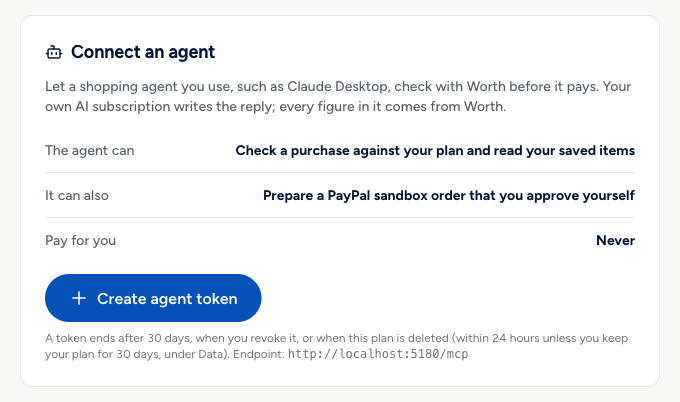
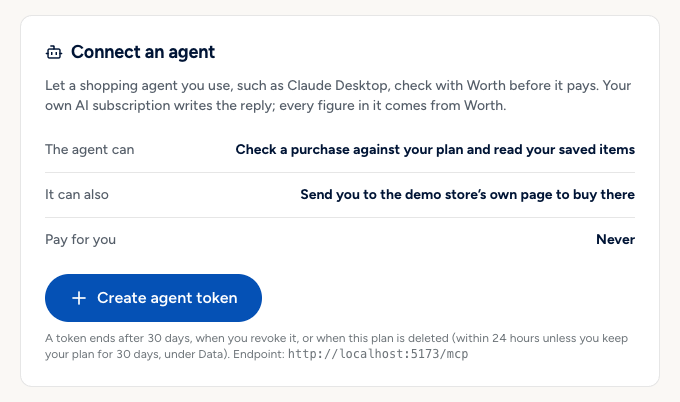
docs: Worth guardrail MCP and the store link replace agent order preparation
docs/MCP.md, README, ARCHITECTURE and EVALUATION describe open_store_checkout
and store_checkout_link, name the server "Worth guardrail MCP", and drop the
prepare_order rate limit. The Connect an agent screenshot shows the new copy.

diff --git a/docs/MCP.md b/docs/MCP.md
@@ -1,6 +1,6 @@
-# Worth over MCP: the affordability check an agent must pass before paying
+# Worth guardrail MCP: the affordability check an agent must pass before paying
 
-Worth runs a [Model Context Protocol](https://modelcontextprotocol.io) server. Any MCP client can ask it whether the person can afford a purchase, read their saved plans, and prepare a PayPal order that **the person approves themselves**. No agent can pay through Worth: there is no capture tool, and every payment still needs the person's approval in PayPal and their confirmation in Worth.
+Worth guardrail MCP is Worth's own [Model Context Protocol](https://modelcontextprotocol.io) server (not PayPal's). Any MCP client can ask it whether the person can afford a purchase at any store, read their saved plans, and, for the demo store's items, get the store's own product page. **Worth sells nothing and never creates an order** (decision 0.2 of the checkout pivot): the store sells the item, and the person pays on the store's page with the store's own PayPal checkout. No agent can pay through Worth: no tool creates, approves or captures a payment.
 
 - **Transport:** Streamable HTTP at `/mcp` on the Worth server (stateless mode), plus a stdio relay (`server/mcpStdio.ts`) for clients that launch a local process.
 - **SDK:** `@modelcontextprotocol/sdk` 1.32.0 (`McpServer`, `registerTool` with zod schemas, `StreamableHTTPServerTransport` with `sessionIdGenerator: undefined`, `StdioServerTransport`).
@@ -10,7 +10,7 @@ Worth runs a [Model Context Protocol](https://modelcontextprotocol.io) server. A
 
 **1. Bring your own AI.** Someone with a Claude Desktop subscription (or any MCP client) connects it to their Worth plan and asks "Can I afford the $1,199 camera?" in their own assistant. Their model writes the reply; Worth supplies every number. Each result carries a ready-to-quote `summary` rendered by Worth's own templates (the same wording the app uses), with `source: "Worth engine"` and the `as_of` date. The tool descriptions tell the model to quote it and never recompute or round.
 
-**2. A guardrail for shopping agents.** An agent that shops and checks out for someone calls `check_affordability` before it buys. If the person still wants to buy, the agent calls `prepare_order`, which runs the same checkout guards as Worth's own Buy button. It returns a PayPal approval link for the human and never captures. Going ahead below the cushion needs an explicit `acknowledge_below_cushion: true`, and the person confirms that again in Worth before any payment.
+**2. A guardrail for shopping agents, at any store.** An agent that shops and checks out for someone calls `check_affordability` before it buys, wherever the item is sold. Worth answers from the person's own plan: buy today, wait until a dated day, or spend less, with PayPal Pay in 4 as a comparison only. The person then buys on the store's own site. For an item in the demo store's catalog (Larkspur Supply), `store_checkout_link` returns that item's page on the store's site with the same verdict, so the agent can hand the person a link instead of a checkout.
 
 ## Setup
 
@@ -128,7 +128,7 @@ Read-only. It assesses the purchase against the person's plan over Worth's 60-da
 | `explanation`                    | Worth's decision sentences (template verdict, low point, cause).                                                                                                                                    |                                                                                                                                               |
 | `pay_in_4_comparison`            | PayPal Pay in 4 as an illustrative comparison: payments, the bills each lands near (`collisions`), and the cushion label. **Never recommended.**                                                    | `recommended: false`; `eligibility`: `paypal`, `range-only` or `unavailable`.                                                                 |
 | `facts`                          | Worth's fact sentences (the same ones Ask Worth uses).                                                                                                                                              |                                                                                                                                               |
-| `catalog_item_id`                | Set when the item is in the demo store's catalog (Larkspur Supply), so `prepare_order` can be called.                                                                                                                  |                                                                                                                                               |
+| `catalog_item_id`                | Set when the item is in the demo store's catalog (Larkspur Supply), so `store_checkout_link` can return its page on the store's site. |                                                                                                                                               |
 | `guards`                         | The checks behind the answer, in the app's trace vocabulary.                                                                                                                                        |                                                                                                                                               |
 | `next_step`                      | What an agent may do next, without recommending.                                                                                                                                                    |                                                                                                                                               |
 
@@ -154,14 +154,16 @@ How Worth's outcome maps to the contract:
 
 **Fail closed:** invalid input, an incomplete plan, and the one ambiguous case (an earlier day than the one asked about fits) each return a refusal with a reason. None of them returns a guessed verdict.
 
-### `prepare_order({ catalog_item_id, acknowledge_below_cushion? })`
+### `store_checkout_link({ catalog_item_id })`
 
-Prepares a PayPal **sandbox** order for a catalog item, behind `checkoutGuards`, the same guard set as Ask Worth's `prepare_checkout` and the saved-plan Buy button. The checks: no other checkout in progress, funds confirmed today, a complete plan, a fresh assessment, and keeping the cushion. Then it takes the same checkout path. Price, currency and merchant come from Worth's catalog, never from the agent.
+The demo store's checkout link. Read-only: it returns the item's page on the store's own site (`MERCHANT_ORIGIN/p/<catalog_item_id>`) together with Worth's verdict for buying it today at the catalog price, which is the same decision `check_affordability` gives for that item. Worth creates no order and calls no PayPal order API; the person buys on the store's page with the store's own PayPal checkout, now or on the day Worth suggests. Price, name and store come from the catalog, never from the agent.
 
-- **Returns** `status: "awaiting_human_approval"`, `approval_url` (for the person to open), `purchase_id`, `order_id`, `amount_usd`, `merchant`, `below_cushion`, `captured: false`, `human_steps` and `guards`.
-- **Never captures.** The order waits in Worth's Activity, labelled **Requested by an external agent**, until the person approves in PayPal and confirms in Worth.
-- **Below the cushion** it refuses with `SHORTFALL_NOT_CONFIRMED`. The refusal states the low point, its date and the wait date, and tells the agent that `acknowledge_below_cushion: true` is allowed only after the person explicitly says to go ahead. Even then, the order is stored as needing confirmation, and capture is refused until the person confirms that acknowledgement themselves in Worth's checkout.
-- Catalog: `headphones`, `camera`, `chair`, `backpack`, `macbook-pro-14`, `airpods-4`.
+- **Returns** `catalog_item_id`, `item`, `merchant`, `amount_usd`, `currency`, `store_url`, `affordability_status`, `recommended_action`, `amount_safe_to_pay`, `earliest_date_for_full_payment`, `explanation`, `order_created: false`, `human_steps` and `guards`. The `summary` is Worth's verdict, then "Larkspur Supply sells the …, not Worth. Buy it on the store's own page with its PayPal checkout: <store_url>", then "Worth prepared no order and nothing has been paid."
+- **Below the cushion** it still returns the link; the verdict says so (for example `affordable_later` with the date that fits). There is no acknowledgement flag, because there is nothing to approve in Worth.
+- **Store hand-off off** (`MERCHANT_ORIGIN` or `HANDOFF_SECRET` unset): `store_url` is `null`, and the summary gives the verdict and says this Worth server has no store link set up.
+- Catalog: `headphones`, `camera`, `chair`, `backpack`, `macbook-pro-14`, `airpods-4`. Any other item is refused with `UNKNOWN_ITEM`; `check_affordability` works for it instead.
+
+Before decision 0.2 this tool was `prepare_order` and created a PayPal sandbox order for the person to approve. It was renamed rather than kept, because no client config names a tool: the Claude Desktop snippets above list only the server.
 
 ### `list_saved_plans()`
 
@@ -172,7 +174,7 @@ Read-only. It lists the person's saved items, newest first: `name`, `kind` (`cat
 Worth's refusals are tool results with `isError: true` and one JSON text block:
 
 ```json
-{ "source": "Worth engine", "as_of": "2026-10-03", "summary": "…", "error": { "code": "SHORTFALL_NOT_CONFIRMED", "message": "…" }, "guards": [ … ] }
+{ "source": "Worth engine", "as_of": "2026-10-03", "summary": "…", "error": { "code": "PLAN_INCOMPLETE", "message": "…" }, "missing": [ … ] }
 ```
 
 | Code                                                                                                                                           | When                                                                                       |
@@ -181,8 +183,7 @@ Worth's refusals are tool results with `isError: true` and one JSON text block:
 | `PLAN_INCOMPLETE`                                                                                                                              | The plan needs details confirmed in Worth (`missing` lists them).                          |
 | `EARLIER_DAY_FITS`                                                                                                                             | The requested date dips below the cushion but an earlier day does not; ask about that day. |
 | `INCOHERENT_RESULT`                                                                                                                            | The coherence gate refused to send an answer.                                              |
-| `UNKNOWN_ITEM`, `CHECKOUT_ACTIVE`, `FUNDS_NOT_TODAY`, `PLAN_INCOMPLETE`, `SHORTFALL_NOT_CONFIRMED`, `ASSESSMENT_EXPIRED`, `PAYPAL_UNAVAILABLE` | `prepare_order`'s guards, in the order they run.                                           |
-| `RATE_LIMITED`                                                                                                                                 | More than 5 prepared orders per token per hour.                                            |
+| `UNKNOWN_ITEM`                                                                                                                                 | `store_checkout_link` for an item outside the demo store's catalog.                        |
 | `PLAN_EXPIRED`                                                                                                                                 | The plan was deleted while the request ran.                                                |
 | `INTERNAL_ERROR`                                                                                                                               | Anything unexpected. The message is fixed; no exception text, stack or data is included.   |
 
@@ -200,17 +201,16 @@ HTTP-level refusals are JSON-RPC errors: `401` (with `WWW-Authenticate: Bearer`)
   - 120 requests per IP per minute, counted before the token is read (`MCP_IP_PER_MINUTE`);
   - 20 failed token checks per IP per 15 minutes, after which that IP is refused even with a valid token;
   - 30 requests per token per minute (`MCP_TOKEN_PER_MINUTE`);
-  - 5 `prepare_order` calls per token per hour (`MCP_PREPARE_HOURLY`);
   - 10 token creations per plan per hour.
-- **No capture path.** No tool can pay. `prepare_order` creates an order and stops. Capture stays on the cookie-authenticated `/api/checkout/:id/capture` route, which still requires PayPal approval, a fresh plan, and the shortfall acknowledgement for below-cushion orders.
+- **No order or payment path.** No tool creates, approves or captures an order. `store_checkout_link` returns a link to the store's own page, built by the server from `MERCHANT_ORIGIN` and the catalog ID; the store creates its own PayPal order when the person checks out there.
 - **Untrusted input.** Item text and saved names are labels, and no figure is read from them. They never start or speak in Worth's quotable `summary`: a catalog item is named by the catalog; anything else is "This purchase", with its sanitised label only in quotes after Worth's sentences, or "this item" when the text reads like a verdict, an instruction or a price. The tool descriptions and server instructions tell agents to treat them as data.
 - **Token lookup** is by its SHA-256 hash through a unique index, not a constant-time compare. With 256-bit random tokens, timing can at most reveal a prefix of a stored hash, which does not help find a token.
-- **Nothing leaks.** Errors carry fixed codes and sentences written for people. Logs record the error class only. Results never include credentials, PayPal payer data or identifiers other than the purchase, order and saved-item IDs the agent needs.
+- **Nothing leaks.** Errors carry fixed codes and sentences written for people. Logs record the error class only. Results never include credentials, PayPal payer data or identifiers other than the catalog and saved-item IDs the agent needs.
 - **Bodies** on `/mcp` are limited to 32 KB. Responses are `Cache-Control: no-store`, and the existing security headers and CSP apply.
 
 ## Example transcript (abridged)
 
-Abridged from a recorded run on the sample persona, on the video day (`/?replay=video`), against the real PayPal sandbox.
+Abridged from the sample persona on the video day (`/?replay=video`), with the store hand-off on.
 
 > **Person:** Buy me the $1,199 camera.
 >
@@ -222,19 +222,16 @@ Abridged from a recorded run on the sample persona, on the video day (`/?replay=
 >
 > (`pay_in_4_comparison.label` says "An instalment would dip below your cushion on Oct 21". That date belongs only to the Pay in 4 comparison. The full-payment low point is Thu, Oct 22. Video captions and voice-over should quote Worth's summary: "lowest −$458.99 on Thu, Oct 22 … the earliest date that fits is Fri, Oct 23". They should not say Oct 21.)
 >
-> **Person:** Prepare it anyway.
+> **Person:** Send me the link anyway; I'll decide.
 >
-> **Agent** → `prepare_order({"catalog_item_id":"camera"})` → `SHORTFALL_NOT_CONFIRMED`: "Worth did not prepare the order. Buying the everyday camera today ($1,199) would dip below your $300 cushion …"
+> **Agent** → `store_checkout_link({"catalog_item_id":"camera"})`
 >
-> **Agent** (the person already said "anyway") → `prepare_order({"catalog_item_id":"camera","acknowledge_below_cushion":true})`
+> **Worth:** `affordable_later` · `store_url: https://<store>/p/camera?replay=video` · `order_created: false`. Summary: the same verdict, then "Larkspur Supply sells the everyday camera, not Worth. Buy it on the store's own page with its PayPal checkout: … Worth prepared no order and nothing has been paid."
 >
-> **Worth:** `awaiting_human_approval`, `captured: false`, `approval_url: https://www.sandbox.paypal.com/checkoutnow?token=…`. Summary: "Worth prepared a PayPal sandbox order for the everyday camera at $1,199 from Larkspur Supply. Nothing has been paid. … Open this link to review and approve it in PayPal … Then confirm the payment in Worth."
->
-> **Person** approves in PayPal. In Worth, Activity shows the order as **Requested by an external agent**. Worth asks them to confirm going below the cushion before it captures.
+> **Person** opens the store's page, where Larkspur's own PayPal button and "Analyse with Worth" sit side by side, and pays there now or on Fri, Oct 23.
 
 ## Limits
 
-- PayPal **sandbox** only, and the six-item demo catalog. `check_affordability` works for any item; `prepare_order` works only for catalog items.
-- The approval link returns to Worth in the browser that holds the plan's session. Approving from another browser works in PayPal, but the person confirms in the browser where the plan lives.
+- PayPal **sandbox** only, and the six-item demo catalog. `check_affordability` works for any item at any store; `store_checkout_link` works only for the demo store's catalog items.
 - No OAuth. Remote clients that require OAuth for custom connectors (rather than a header) need the `mcp-remote` bridge above.
 - When a token is revoked mid-session, mcp-remote reacts to the `401` by trying OAuth discovery, and shows "Dynamic Client Registration rejected (HTTP 404)". The stdio relay shows Worth's own `UNAUTHORIZED` message instead.

diff --git a/README.md b/README.md
@@ -94,7 +94,7 @@ and 47% of BNPL users say they paid late in the past year
 - **Your own history.** Import a PayPal activity CSV (personal or business export, up to 1 MB and
   10,000 rows). Worth proposes recurring bills, categories and existing Pay in 4 plans for you to
   confirm; it never deducts history from today's funds a second time.
-- **Connect an agent.** Any MCP client can ask Worth before it pays. See [MCP](#mcp).
+- **Connect an agent.** Any MCP client can ask Worth before it pays. See [Worth guardrail MCP](#worth-guardrail-mcp).
 
 ![Saved on a return visit: the camera saved for Fri, Oct 23 now shows "Your plan suggests this may fit now — confirm today's funds"](docs/img/saved-return-visit.png)
 
@@ -177,11 +177,10 @@ Claude is the interface and the narrator; the engine is the decision-maker.
   `checkSentence` rejects free numbers or dates, advice, a value in the wrong place, wording that
   rates Pay in 4, and anything that contradicts the engine's outcome; on any failure the
   engine's template sentence is shown instead. The verdict sentence itself is always a template.
-- **Act, behind guards.** `prepare_checkout` lets Claude ask for an order for a catalog item. The
-  server prepares it only if the user's own words (not quoted or pasted text) are an unqualified
-  instruction to buy, funds are confirmed for today, the assessment is fresh, no other checkout
-  is active, and the price comes from the catalog. Going below the cushion needs the user's own
-  "anyway" and a second confirmation at capture. Claude never captures.
+- **Send you to the store, never sell.** When you ask to buy a demo-store item,
+  `open_store_checkout` shows Worth's check of buying it today and an "Open at Larkspur Supply"
+  link to the store's own product page, built by the server from `MERCHANT_ORIGIN` and the
+  catalog. Worth prepares no order: you pay on the store's page with its own PayPal checkout.
 - **Consent and limits.** The untouched sample plan can use Claude without opt-in; an edited or
   imported plan needs the AI-sharing switch. Requests are capped per IP per hour and per server
   per day; past a cap, or without a key, answers are labelled local calculations.
@@ -200,10 +199,10 @@ The [evaluation](#evaluation) runs these paths live against the real model.
 | PayPal `find-eligible-methods` | Server-side Pay Later eligibility for the price before the Pay in 4 comparison is offered |
 | PayPal Webhooks | Raw-body signature verification; order events reconcile, refunds and reversals become review items |
 | PayPal sandbox accounts and negative testing | A US sandbox merchant and buyer; `PayPal-Mock-Response` for the decline and re-approve path |
-| Claude Sonnet 5.5 (Anthropic API) | Interprets questions, picks engine facts, writes one checked sentence, may request a guarded checkout, suggests import categories |
+| Claude Sonnet 5.5 (Anthropic API) | Interprets questions, picks engine facts, writes one checked sentence, may link to the demo store's product page, suggests import categories |
 | Claude Opus 5.5 (Anthropic API) | Offline only: the independent judge in the live AI eval (`eval/judge.ts`); never called by the app |
 | Channel3 API | `search`, `similar` and product reads for "similar items that fit today"; 6 h cache, daily and per-IP caps, recorded results as fallback |
-| Model Context Protocol SDK | The `/mcp` server and stdio relay that let outside agents check affordability and prepare orders |
+| Model Context Protocol SDK | Worth guardrail MCP: the `/mcp` server and stdio relay that let outside agents check affordability at any store before they buy |
 | Render | Hosts the app from `render.yaml`: one Node 24 web service with a 1 GB persistent disk |
 | SQLite (`node:sqlite`) | Session-scoped storage on that disk: plans, purchases, saved items, webhook events, agent tokens |
 | React 19, Vite, Express 5, Zod 4, TypeScript | The client, build, HTTP server and validation at every boundary |
@@ -223,7 +222,7 @@ The [evaluation](#evaluation) runs these paths live against the real model.
         │                    ▼                         └── Channel3 (similar items, cached)
         │        server/chat.ts (Anthropic SDK)
         │        tools ─► interpret · commitments · spending · plan · alternatives
-        │        prepare_checkout ─► checkoutGuards (server/agentCheckout.ts)
+        │        open_store_checkout ─► MERCHANT_ORIGIN/p/<id> (no order)
         │        sentence ─► checkSentence ─► template on any failure
         ▼                    │
   shared/finance.ts (pure TypeScript, integer cents) ◄──┘   the model's tools ARE the engine
@@ -231,7 +230,7 @@ The [evaluation](#evaluation) runs these paths live against the real model.
         │
   node:sqlite on the Render disk (one row set per anonymous session)
 
-  /mcp (bearer token, no Claude) ─► the same engine and checkoutGuards
+  /mcp (bearer token, no Claude) ─► the same engine; the store's link, never an order
 ```
 
 - **The engine** (`shared/finance.ts`, `shared/collision.ts`) is pure: data in, data out. It
@@ -250,32 +249,32 @@ The [evaluation](#evaluation) runs these paths live against the real model.
 [docs/ARCHITECTURE.md](docs/ARCHITECTURE.md) has the full design: the forecast, the AI
 boundary, the payment state machine, Channel3, saved plans, sessions and privacy.
 
-## MCP
+## Worth guardrail MCP
 
-Worth runs a Model Context Protocol server at `/mcp` (Streamable HTTP, stateless) with a stdio
-relay for local clients. Create a revocable agent token in **Settings → Connect an agent**, paste
+Worth runs its own Model Context Protocol server, Worth guardrail MCP, at `/mcp` (Streamable
+HTTP, stateless) with a stdio relay for local clients. Create a revocable agent token in **Settings → Connect an agent**, paste
 the generated config into Claude Desktop or any MCP client, and ask "Can I afford the $1,199
 camera?" in your own assistant.
 
-- `check_affordability` returns Worth's decision (affordable now, later, or not; the safe amount;
-  the earliest date; the low point and the bill behind it; Pay in 4 as a comparison) with a
-  ready-to-quote summary from Worth's templates. Coherence invariants are checked before every
-  answer.
-- `prepare_order` runs the same `checkoutGuards` as the Buy button and returns a PayPal approval
-  link for the person. There is no capture tool; the order waits in Activity, labelled
-  "Requested by an external agent", until the person approves and confirms.
+- `check_affordability` is the guardrail for any store. It returns Worth's decision (affordable
+  now, later, or not; the safe amount; the earliest date; the low point and the bill behind it;
+  Pay in 4 as a comparison) with a ready-to-quote summary from Worth's templates. Coherence
+  invariants are checked before every answer.
+- `store_checkout_link` is the demo store's checkout link: for a Larkspur Supply item it returns
+  the store's own product page with the same verdict. Worth creates no order; the person pays on
+  the store's page with its PayPal checkout.
 - `list_saved_plans` lists saved items and wait plans.
 
 The MCP path makes no Anthropic call. Tokens are stored as SHA-256 fingerprints, bound to one
 plan and rate-limited. Setup, the tool contract and the security model are in
 [docs/MCP.md](docs/MCP.md).
 
-<img src="docs/img/connect-agent.png" width="560" alt="Settings, Connect an agent: the agent can check a purchase against your plan and read saved items, can prepare a PayPal sandbox order you approve yourself, and can never pay for you">
+<img src="docs/img/connect-agent.png" width="560" alt="Settings, Connect an agent: the agent can check a purchase against your plan and read saved items, can send you to the demo store's own page to buy there, and can never pay for you">
 
 ## Limits and degradation
 
 - **Sandbox only.** No real money moves and no goods ship. The demo store (Larkspur Supply) has
-  six items; `prepare_checkout` and `prepare_order` work only for those.
+  six items; `open_store_checkout` and `store_checkout_link` link only to those.
 - **USD only, CSV only.** There is no consumer API for PayPal activity, so history comes from a
   CSV export or the sample plan. Foreign-currency rows without a USD conversion block positive
   answers until resolved.
@@ -338,7 +337,7 @@ the webhook ID in `PAYPAL_WEBHOOK_ID`. Localhost alone cannot receive them.
 | `CLAUDE_DAILY_LIMIT`, `CLAUDE_IP_HOURLY_LIMIT` | Claude requests per server per day (200) and per client IP per hour (20) |
 | `SESSION_IP_HOURLY_LIMIT` | New sessions per client IP per hour (30) |
 | `MAX_SESSIONS`, `MAX_TRANSACTIONS` | Live sessions (5,000) and stored transactions per session (20,000) |
-| `MCP_IP_PER_MINUTE`, `MCP_TOKEN_PER_MINUTE`, `MCP_PREPARE_HOURLY` | `/mcp` requests per IP per minute (120), per token per minute (30), and `prepare_order` calls per token per hour (5) |
+| `MCP_IP_PER_MINUTE`, `MCP_TOKEN_PER_MINUTE` | `/mcp` requests per IP per minute (120) and per token per minute (30) |
 | `PORT`, `HOST` | Port (5173) and bind address (`0.0.0.0` in production, `127.0.0.1` otherwise) |
 | `APP_ORIGIN` | Public browser origin. Falls back to `APP_URL`, then `RENDER_EXTERNAL_URL`, then `http://localhost:$PORT`. Production refuses localhost or plain HTTP |
 | `TRUST_PROXY` | Reverse-proxy hops trusted for the client IP. Required in production (2 on Render) |

diff --git a/docs/ARCHITECTURE.md b/docs/ARCHITECTURE.md
@@ -18,17 +18,17 @@ flowchart LR
   API --> Import[CSV normalisation]
   API --> Claude[Claude Sonnet 5.5<br/>engine tools]
   Claude --> Engine
-  Claude -.prepare_checkout.-> Guards[checkoutGuards]
-  API --> Guards
+  Claude -.open_store_checkout.-> StoreLink[Store product page link<br/>MERCHANT_ORIGIN/p/id]
+  API --> Guards[checkoutGuards]
   Guards --> PayPal[PayPal sandbox<br/>Orders v2 · eligibility]
   API --> Channel3[Channel3 search]
   UI --> SDK[PayPal JS SDK v6<br/>button · popup · Messages]
   SDK --> Approval[Buyer approval in PayPal]
   PayPal -->|webhook, raw body| Webhook[Verify signature<br/>re-read order or refund]
   Webhook --> Store
-  Agent[MCP client] -->|bearer token| MCP[/mcp]
+  Agent[MCP client] -->|bearer token| MCP["/mcp · Worth guardrail MCP"]
   MCP --> Engine
-  MCP --> Guards
+  MCP -.store_checkout_link.-> StoreLink
 ```
 
 In development, `server/index.ts` mounts Vite middleware in the same Express process. In
@@ -52,7 +52,7 @@ the model name and the Channel3 status).
 | `server/chat.ts` | The Claude tool loop, tool schemas, the answer's trace, and the deterministic local fallback. |
 | `server/interpret.ts`, `server/money.ts`, `server/dates.ts` | Checks Claude's reading against the user's own words: amounts, currencies, timing phrases and which item a follow-up means. |
 | `server/narration.ts` | Every sentence the user reads: verdict templates, fact catalogs, the Pay in 4 wording and `checkSentence` for Claude's one sentence. |
-| `server/agentCheckout.ts` | `asksToCheckOut` (the user's own unqualified instruction) and `checkoutGuards`, shared by Ask Worth, the saved-plan Buy button and MCP. |
+| `server/checkoutGuards.ts` | `checkoutGuards` for the saved-plan Buy button. Agents (Ask Worth and MCP) never prepare orders; they link to the store's own page. |
 | `server/paypal.ts` | Sandbox OAuth, Orders v2 create/get/capture, refunds, `find-eligible-methods`, webhook signature verification and order validation. |
 | `server/channel3.ts`, `server/alternatives.ts` | The Channel3 adapter (band, parsing, URL lookup, cache, back-off, limits, recorded fallback) and what Worth searches for. |
 | `server/outcome.ts` | A store's verified report-back (C4): idempotent on captureId, recorded once with consent and `returnedAt`. |
@@ -110,7 +110,7 @@ retry of a retryable provider error while time remains. The person's message, up
 eight prior messages and a bounded request context are sent; transaction and merchant strings
 are minimised and marked as data, never instructions.
 
-Tools, all read-only except the guarded request in `prepare_checkout`:
+Tools, all read-only:
 
 | Tool | What Claude reports | What the server does |
 | --- | --- | --- |
@@ -119,7 +119,7 @@ Tools, all read-only except the guarded request in `prepare_checkout`:
 | `spending_summary` | — | Totals completed USD spending by category for 30 days |
 | `get_plan_summary` | — | Room to spend today, the baseline low point and its cause |
 | `find_alternatives` | A generic kind of item and a ceiling the user wrote | Refuses for "cheaper" about timing, payment method or services; otherwise searches Channel3 within the room today; only the outcome returns to Claude, never product names or prices |
-| `prepare_checkout` | Catalog item ID, option, and whether the user said to go ahead below the cushion | Runs `checkoutGuards`; Claude receives only the outcome |
+| `open_store_checkout` | A catalog item ID, when the person asks to buy it | Assesses the item at its catalog price today and links to `MERCHANT_ORIGIN/p/<id>` (no link while the hand-off is off). Worth prepares no order; Claude receives only whether a link was shown |
 
 Every read tool also takes **presentation fields**: up to three facts from a fixed catalog for
 that tool, a reason for each from a fixed set (`answers_question`, `explains_result`,
@@ -143,14 +143,19 @@ which tool ran, the facts Claude picked with their reasons, every server check t
 stopped the answer, and Claude's raw placeholder sentence with whether it was accepted. The
 client shows it under "How Ask Worth read this".
 
-**Checkout.** `checkoutGuards` (`server/agentCheckout.ts`) runs in order: an explicit purchase
-instruction in the user's own words (quoted or pasted text dropped, no question, no negation or
-condition), a catalog item, named in the message or the item under discussion, no other active
-checkout, funds confirmed today, a complete plan, the wait date reached for the wait option, the
-spend-less limit for that option, and below the cushion only with the user's own go-ahead.
-Creating the order then re-checks a fresh assessment and that PayPal is available. The price, currency and merchant come from the catalog. An
-order prepared below the cushion is stored as needing confirmation, and capture refuses until
-the user confirms that in the checkout.
+**Buying from the demo store.** Ask Worth never prepares an order (decision 0.2 of the checkout
+pivot). When the person asks to buy a catalog item, `open_store_checkout` shows the engine's
+assessment of buying it today and an "Open at Larkspur Supply" link to the store's own product
+page. The URL, name and price come from the server's catalog and `MERCHANT_ORIGIN`, never from
+Claude; the link leaves in the same tab with `rel="noreferrer"`, like `/check`'s "Back to
+Larkspur Supply". The store creates its own PayPal order when the person checks out there.
+
+**Saved-plan checkout.** `checkoutGuards` (`server/checkoutGuards.ts`) guards the saved plan's
+Buy button: no other active checkout, funds confirmed today, a complete plan, the wait date
+reached for the wait option, the spend-less limit for that option, and the cushion kept.
+Creating the order then re-checks a fresh assessment. The price, currency and merchant come from
+the catalog. An order an agent prepared below the cushion before decision 0.2 is stored as
+needing confirmation, and capture still refuses until the user confirms that in the checkout.
 
 **Fallback.** Without a key, on a provider error or timeout, past `CLAUDE_IP_HOURLY_LIMIT` or
 `CLAUDE_DAILY_LIMIT`, or when AI sharing is off for an edited or imported plan, `fallbackReply()`
@@ -199,10 +204,11 @@ value is read from engine output; the chart computes no money of its own.
 `/mcp` is mounted outside `/api`: it reads only an `Authorization: Bearer wrth_…` token, never
 the session cookie. Tokens are created in Settings → Connect an agent, stored as SHA-256
 fingerprints with the last four characters, bound to one session's plan, capped at three per
-plan, and expire with the plan or after 30 days. Three tools map existing engine functions:
-`check_affordability` (a decision contract checked by `checkDecision` before it is sent),
-`prepare_order` (the same `checkoutGuards`, returning an approval link and never capturing) and
-`list_saved_plans`. Orders an agent requested are labelled in Activity. The MCP path makes no
+plan, and expire with the plan or after 30 days. Worth guardrail MCP has three tools, each
+mapping existing engine functions: `check_affordability` (the guardrail for any store: a decision
+contract checked by `checkDecision` before it is sent), `store_checkout_link` (the demo store's
+checkout link: its product page plus the same verdict, never an order) and `list_saved_plans`.
+Orders an agent requested before decision 0.2 stay labelled in Activity. The MCP path makes no
 Anthropic call. Limits, refusals and setup are in [MCP.md](MCP.md).
 
 ## Store hand-off (/check)

diff --git a/docs/EVALUATION.md b/docs/EVALUATION.md
@@ -107,9 +107,9 @@ uses both values. That change only makes the check stricter, and it was not re-r
   team, the persona is synthetic, and the judge is itself a model (its stability is reported, not
   assumed). Misses (a question where an answer was possible) are counted separately from unsafe
   outcomes.
-- Checkout preparation is decided by server guards, not by the model, so `prepare_checkout` is
-  covered by unit tests (`tests/agent-checkout.test.ts`). The MCP tools make no model call and
-  are covered by `tests/mcp*.test.ts`. Neither is part of this eval.
+- Ask Worth's `open_store_checkout` only links to the store's page, with a URL, name and price
+  the server sets, so it is covered by unit tests (`tests/store-checkout-link.test.ts`). The MCP
+  tools make no model call and are covered by `tests/mcp*.test.ts`. Neither is part of this eval.
 
 Reports (JSON and markdown, one per run) are kept outside the repository with the team's review
 records; the tables above are copied from them.
